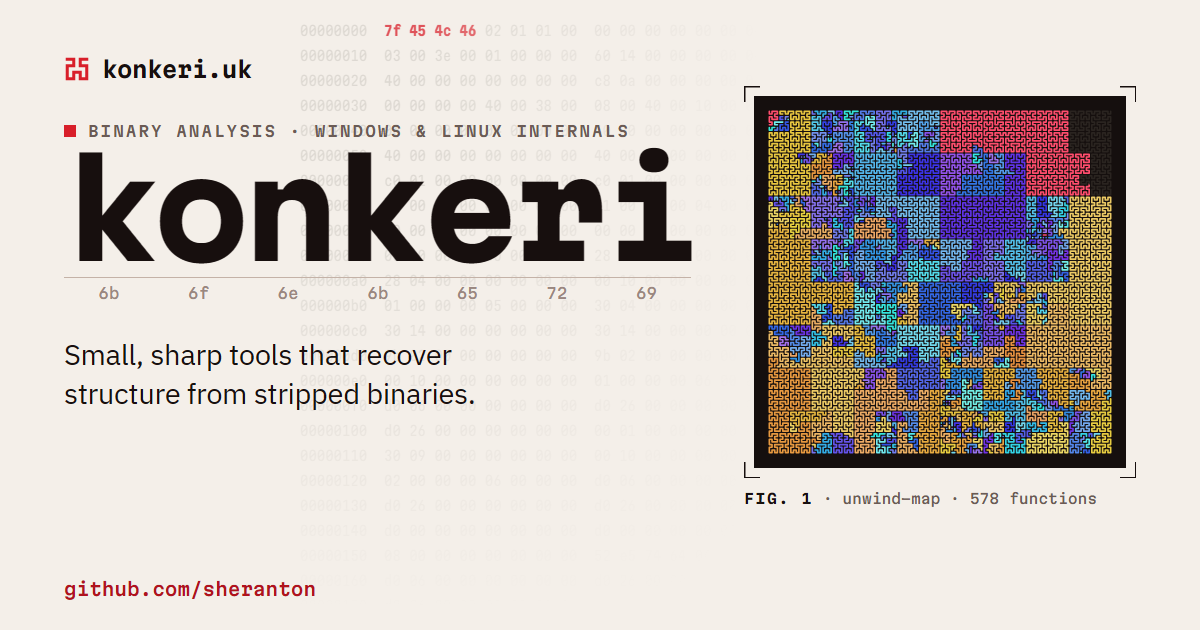
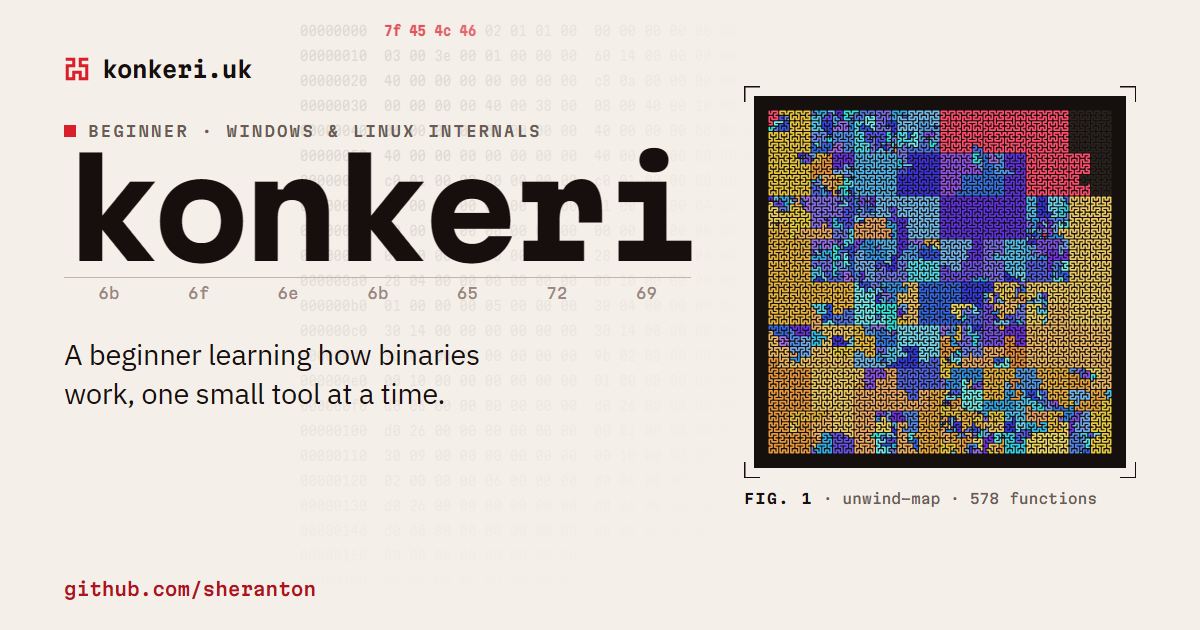
Describe myself as a beginner

Changed region(s): [[0.0308, 0.5429, 0.4008, 0.6635], [0.0925, 0.181, 0.5242, 0.2413]]

diff --git a/index.html b/index.html
@@ -3,8 +3,8 @@
 <head>
 	<meta charset="utf-8">
 	<meta name="viewport" content="width=device-width, initial-scale=1">
-	<title>konkeri · binary analysis, Windows &amp; Linux internals</title>
-	<meta name="description" content="konkeri builds small, sharp tools that recover structure from stripped binaries: function boundaries, class hierarchies, vtables, and what changed between two builds. Rust, C++, C and Python.">
+	<title>konkeri · learning binary analysis and Windows &amp; Linux internals</title>
+	<meta name="description" content="konkeri is a beginner learning reverse engineering and Windows &amp; Linux internals by building small tools in Rust, C++, C and Python.">
 	<meta name="color-scheme" content="light dark">
 	<meta name="theme-color" content="#f4efe9" media="(prefers-color-scheme: light)">
 	<meta name="theme-color" content="#100c0c" media="(prefers-color-scheme: dark)">
@@ -12,8 +12,8 @@
 	<link rel="canonical" href="https://konkeri.uk/">
 	<meta property="og:type" content="website">
 	<meta property="og:url" content="https://konkeri.uk/">
-	<meta property="og:title" content="konkeri · binary analysis, Windows & Linux internals">
-	<meta property="og:description" content="Small, sharp tools that recover structure from stripped binaries.">
+	<meta property="og:title" content="konkeri · learning binary analysis and Windows & Linux internals">
+	<meta property="og:description" content="A beginner learning how binaries work, one small tool at a time.">
 	<meta property="og:image" content="https://konkeri.uk/og.png">
 	<meta property="og:image:width" content="1200">
 	<meta property="og:image:height" content="630">
@@ -76,13 +76,13 @@
 000001b0  4c 00 00 00 00 00 00 00  4c 00 00 00 00 00 00 00  |L.......L.......|</pre>
 			<div class="gutter" aria-hidden="true"><span class="addr">0x000000</span><span class="sname">e_ident</span><span class="meta">7f 45 4c 46</span></div>
 			<div class="sec-main">
-				<p class="kicker"><i aria-hidden="true"></i>Binary analysis · Windows &amp; Linux internals</p>
+				<p class="kicker"><i aria-hidden="true"></i>Beginner · binary analysis · Windows &amp; Linux internals</p>
 				<h1 class="name" aria-label="konkeri">
 					<span class="ch" aria-hidden="true"><b>k</b><i>6b</i></span><span class="ch" aria-hidden="true"><b>o</b><i>6f</i></span><span class="ch" aria-hidden="true"><b>n</b><i>6e</i></span><span class="ch" aria-hidden="true"><b>k</b><i>6b</i></span><span class="ch" aria-hidden="true"><b>e</b><i>65</i></span><span class="ch" aria-hidden="true"><b>r</b><i>72</i></span><span class="ch" aria-hidden="true"><b>i</b><i>69</i></span>
 				</h1>
 				<div class="hero-grid">
 					<div class="hero-copy">
-						<p class="lede">I build small, sharp tools that recover structure from stripped binaries: function boundaries, class hierarchies, vtables, and what changed between two builds.</p>
+						<p class="lede">I'm a beginner learning how binaries work by building small tools to take them apart: finding functions, class hierarchies and vtables, and spotting what changed between two builds.</p>
 						<p class="langs" aria-label="Languages"><span>Rust</span><span>C++</span><span>C</span><span>Python</span></p>
 						<p class="cta">
 							<a class="btn btn-solid" href="#tools">Browse the tools <span aria-hidden="true">↓</span></a>
@@ -108,11 +108,11 @@
 					<table class="shdr">
 						<thead><tr><th scope="col">[Nr]</th><th scope="col">Name</th><th scope="col">Contents</th><th scope="col" class="num">Offset</th><th scope="col" class="num hide-sm">Size</th><th scope="col" class="hide-sm">Flg</th></tr></thead>
 						<tbody>
-							<tr data-for="about"><td>[ 1]</td><td><a href="#about">.comment</a></td><td>About: who I am and what I work on</td><td class="num off">–</td><td class="num size hide-sm">–</td><td class="hide-sm">MS</td></tr>
-							<tr data-for="tools"><td>[ 2]</td><td><a href="#tools">.text</a></td><td>Tools: <span id="toc-tools">6</span> open-source tools, live from GitHub</td><td class="num off">–</td><td class="num size hide-sm">–</td><td class="hide-sm">AX</td></tr>
-							<tr data-for="toolbox"><td>[ 3]</td><td><a href="#toolbox">.rodata</a></td><td>Toolbox: languages, platforms and formats</td><td class="num off">–</td><td class="num size hide-sm">–</td><td class="hide-sm">A</td></tr>
+							<tr data-for="about"><td>[ 1]</td><td><a href="#about">.comment</a></td><td>About: who I am and what I'm learning</td><td class="num off">–</td><td class="num size hide-sm">–</td><td class="hide-sm">MS</td></tr>
+							<tr data-for="tools"><td>[ 2]</td><td><a href="#tools">.text</a></td><td>Tools: <span id="toc-tools">6</span> learning projects, live from GitHub</td><td class="num off">–</td><td class="num size hide-sm">–</td><td class="hide-sm">AX</td></tr>
+							<tr data-for="toolbox"><td>[ 3]</td><td><a href="#toolbox">.rodata</a></td><td>Toolbox: what I've been learning with</td><td class="num off">–</td><td class="num size hide-sm">–</td><td class="hide-sm">A</td></tr>
 							<tr data-for="releases"><td>[ 4]</td><td><a href="#releases">.gnu.version</a></td><td>Releases: <span id="toc-releases">10</span> tagged releases</td><td class="num off">–</td><td class="num size hide-sm">–</td><td class="hide-sm">A</td></tr>
-							<tr data-for="method"><td>[ 5]</td><td><a href="#method">.note</a></td><td>Method: how I build and test</td><td class="num off">–</td><td class="num size hide-sm">–</td><td class="hide-sm">A</td></tr>
+							<tr data-for="method"><td>[ 5]</td><td><a href="#method">.note</a></td><td>Method: how I'm learning</td><td class="num off">–</td><td class="num size hide-sm">–</td><td class="hide-sm">A</td></tr>
 							<tr data-for="contact"><td>[ 6]</td><td><a href="#contact">.dynamic</a></td><td>Contact: where to find me</td><td class="num off">–</td><td class="num size hide-sm">–</td><td class="hide-sm">WA</td></tr>
 						</tbody>
 					</table>
@@ -127,19 +127,19 @@
 				<h2 class="title"><span class="idx">01</span>About</h2>
 				<div class="about">
 					<div class="prose">
-						<p class="big">I'm <strong>konkeri</strong>, an independent researcher working on systems programming and binary analysis across Windows and Linux.</p>
-						<p>Most of what I build is small, focused tooling that makes the layer between source code and the running process visible: how compilers lay out objects and emit metadata, how linkers assemble a binary, how loaders map it into memory, and how debuggers and unwinders read it back.</p>
+						<p class="big">I'm <strong>konkeri</strong>, a beginner teaching myself systems programming and reverse engineering on Windows and Linux.</p>
+						<p>I learn best by building things, so most of my projects are small tools that help me see what happens between source code and a running program: how compilers lay out objects and metadata, how linkers put a binary together, how loaders map it into memory, and how debuggers and unwinders read it back.</p>
 					</div>
 					<blockquote class="thesis">
-						<p>The metadata a compiler <em>has</em> to leave in a binary, such as RTTI, vtables, unwind tables and import tables, survives stripping. It often says more about a program's structure than the symbol table did.</p>
-						<footer class="label">Working thesis</footer>
+						<p>Something I've found fascinating so far: the metadata a compiler <em>has</em> to leave in a binary, such as RTTI, vtables, unwind tables and import tables, survives stripping. It can tell you a surprising amount about how a program is put together.</p>
+						<footer class="label">Something I've learned</footer>
 					</blockquote>
 				</div>
 				<dl class="focus">
-					<div><dt>Windows x64</dt><dd>PE/COFF layout, the MSVC C++ ABI, RTTI and class hierarchy recovery, vtables, imports and exports.</dd></div>
-					<div><dt>Linux</dt><dd>ELF, the System V AMD64 ABI, DWARF call frame information and <code>.eh_frame</code>, program headers and the loader.</dd></div>
-					<div><dt>Tooling</dt><dd>Static analysis that recovers structure from stripped binaries, built to sit alongside Ghidra, GDB, x64dbg and WinDbg.</dd></div>
-					<div><dt>Languages</dt><dd>C++ for Windows tooling, Rust for cross-platform CLIs, C for the lowest layers, Python for analysis scripts and test harnesses.</dd></div>
+					<div><dt>Windows x64</dt><dd>Learning PE/COFF layout, the MSVC C++ ABI, RTTI and class hierarchies, vtables, imports and exports.</dd></div>
+					<div><dt>Linux</dt><dd>Learning ELF, the System V AMD64 ABI, DWARF call frame information and <code>.eh_frame</code>, program headers and the loader.</dd></div>
+					<div><dt>Tooling</dt><dd>Reading stripped binaries with Ghidra, GDB, x64dbg and WinDbg, and writing small tools to help along the way.</dd></div>
+					<div><dt>Languages</dt><dd>C++ for my Windows tools, Rust for cross-platform command-line tools, C for the low-level parts, Python for scripts. Still learning all four.</dd></div>
 				</dl>
 			</div>
 		</section>
@@ -149,14 +149,14 @@
 			<div class="gutter" aria-hidden="true"><span class="addr">0x000000</span><span class="sname">.text</span><span class="meta">AX · <span class="size">0x0</span></span></div>
 			<div class="sec-main">
 				<h2 class="title"><span class="idx">02</span>Tools</h2>
-				<p class="sec-lede">Every tool is open source, has zero third-party dependencies, and is tested in CI on Windows, Linux and macOS. This section reads live from GitHub.</p>
+				<p class="sec-lede">These are my learning projects. They're all open source, tested in CI on Windows, Linux and macOS, and have no third-party dependencies. This section reads live from GitHub.</p>
 
 				<article class="feature" id="tool-unwind-map">
 					<div class="feature-copy">
-						<p class="label"><i class="sq tc-unwind-map" aria-hidden="true"></i>Flagship · Rust</p>
+						<p class="label"><i class="sq tc-unwind-map" aria-hidden="true"></i>Biggest project so far · Rust</p>
 						<h3><a href="https://github.com/sheranton/unwind-map">unwind-map</a></h3>
 						<p class="feature-desc" id="feature-desc">Recover function boundaries from stripped Linux ELF binaries using the .eh_frame unwind tables that strip can't remove.</p>
-						<p>It finds every function that has unwind info, with no false starts, and its output feeds straight back into <code>objcopy</code> to give a stripped binary its symbols again.</p>
+						<p>In my tests it found every function that has unwind info without any false starts, and its output can go straight back into <code>objcopy</code> to give a stripped binary its symbols again.</p>
 						<dl class="spec">
 							<div><dt>Input</dt><dd>Stripped ELF binaries</dd></div>
 							<div><dt>Architectures</dt><dd>x86-64 · x86 · AArch64</dd></div>
@@ -174,8 +174,8 @@
 
 				<div class="kit">
 					<div class="kit-head">
-						<h3 id="kit-title">The rest of the toolkit</h3>
-						<p id="kit-sub">C++17 tools for Windows PE files and MSVC binaries.</p>
+						<h3 id="kit-title">My other projects</h3>
+						<p id="kit-sub">Smaller C++17 tools I made while learning about Windows PE files and MSVC binaries.</p>
 					</div>
 					<div class="kit-grid">
 						<div class="kit-list" id="kit-list" role="tablist" aria-orientation="vertical" aria-labelledby="kit-title">
@@ -201,6 +201,7 @@
 			<div class="gutter" aria-hidden="true"><span class="addr">0x000000</span><span class="sname">.rodata</span><span class="meta">A · <span class="size">0x0</span></span></div>
 			<div class="sec-main">
 				<h2 class="title"><span class="idx">03</span>Toolbox</h2>
+				<p class="sec-lede">The languages and tools I've been learning with so far.</p>
 				<dl class="consts">
 					<div><dt>Languages</dt><dd><span>Rust</span><span>C++17/20</span><span>C</span><span>Python</span></dd></div>
 					<div><dt>Platforms</dt><dd><span>Windows</span><span>Linux</span></dd></div>
@@ -216,7 +217,7 @@
 			<div class="gutter" aria-hidden="true"><span class="addr">0x000000</span><span class="sname">.gnu.version</span><span class="meta">A · <span class="size">0x0</span></span></div>
 			<div class="sec-main">
 				<h2 class="title"><span class="idx">04</span>Releases</h2>
-				<p class="sec-lede">Every tagged release across the toolkit, newest first.</p>
+				<p class="sec-lede">Every tagged release of my projects, newest first.</p>
 				<ol class="vers" id="timeline"></ol>
 			</div>
 		</section>
@@ -227,10 +228,10 @@
 			<div class="sec-main">
 				<h2 class="title"><span class="idx">05</span>Method</h2>
 				<ol class="notes">
-					<li><p class="label">Note 01</p><h3>Lab-first</h3><p>Everything is built and tested on my own machines, against my own target binaries.</p></li>
-					<li><p class="label">Note 02</p><h3>Verified, not eyeballed</h3><p>Golden-file tests against real binaries, cross-checked with independent decoders such as readelf and llvm-readobj.</p></li>
-					<li><p class="label">Note 03</p><h3>Small and auditable</h3><p>Focused codebases with zero third-party dependencies, so the whole tool fits in your head.</p></li>
-					<li><p class="label">Note 04</p><h3>Documented internals</h3><p>Every README explains the format being parsed, with diagrams built from real data.</p></li>
+					<li><p class="label">Note 01</p><h3>Learning by building</h3><p>I learn each file format by writing a tool that reads it, then testing it on binaries I've built myself.</p></li>
+					<li><p class="label">Note 02</p><h3>Checking my work</h3><p>I test against real binaries and compare my results with established tools like readelf and llvm-readobj, so I find out when I've got something wrong.</p></li>
+					<li><p class="label">Note 03</p><h3>Keeping it small</h3><p>Each tool does one thing and has no third-party dependencies, so I can understand every line.</p></li>
+					<li><p class="label">Note 04</p><h3>Writing it down</h3><p>Each README explains the file format the tool reads, which helps me check that I really understand it.</p></li>
 				</ol>
 			</div>
 		</section>
@@ -240,7 +241,7 @@
 			<div class="gutter" aria-hidden="true"><span class="addr">0x000000</span><span class="sname">.dynamic</span><span class="meta">WA · <span class="size">0x0</span></span></div>
 			<div class="sec-main">
 				<h2 class="title"><span class="idx">06</span>Contact</h2>
-				<p class="contact-lede">The best way to reach me is on GitHub: open an issue on any repository, or follow along there.</p>
+				<p class="contact-lede">I'm still learning, so feedback, corrections and tips are really welcome. The best way to reach me is on GitHub: open an issue on any repository.</p>
 				<a class="biglink" href="https://github.com/sheranton" rel="me">github.com/sheranton<span aria-hidden="true">↗</span></a>
 				<pre class="dyn" aria-label="readelf -d style summary of the links above"><span class="dim">  Tag        Type       Name/Value</span>
  0x00000001 (NEEDED)   Shared library: [<a href="https://github.com/sheranton">github.com/sheranton</a>]

diff --git a/scripts/og.html b/scripts/og.html
@@ -79,11 +79,11 @@
 000001b0  4c 00 00 00 00 00 00 00  4c 00 00 00 00 00 00 00</pre>
 	<div>
 		<div class="top"><svg viewBox="0 0 24 24"><path d="M3 3H9V9H3V21H9V15H15V21H21V9H15V3H21"/></svg>konkeri.uk</div>
-		<p class="kicker"><i></i>Binary analysis · Windows &amp; Linux internals</p>
+		<p class="kicker"><i></i>Beginner · Windows &amp; Linux internals</p>
 		<div class="name">
 			<span class="ch"><b>k</b><i>6b</i></span><span class="ch"><b>o</b><i>6f</i></span><span class="ch"><b>n</b><i>6e</i></span><span class="ch"><b>k</b><i>6b</i></span><span class="ch"><b>e</b><i>65</i></span><span class="ch"><b>r</b><i>72</i></span><span class="ch"><b>i</b><i>69</i></span>
 		</div>
-		<p class="lede">Small, sharp tools that recover structure from stripped binaries.</p>
+		<p class="lede">A beginner learning how binaries work, one small tool at a time.</p>
 	</div>
 	<div>
 		<div class="crop"><div class="plate"><img src="../public/fig-unwind-map.svg" alt=""></div></div>

diff --git a/src/main.ts b/src/main.ts
@@ -295,7 +295,7 @@ const HIGHLIGHTS: Record<string, string> = {
 	"pe-diff": "Shows what changed between two builds and exits 1 on drift, so it can gate a CI pipeline.",
 	"rtti-dump": "Rebuilds inheritance trees from stripped MSVC binaries and emits Mermaid class diagrams.",
 	"vtable-dump": "Finds every vtable through its RTTI back-reference and lists the code in each slot.",
-	"pattern-scan": "A single header about 11× faster than a byte-by-byte scan, plus the patscan CLI.",
+	"pattern-scan": "A single header that came out about 11× faster than a byte-by-byte scan in my benchmark, plus the patscan CLI.",
 };
 const toolClass = (name: string) => `tc-${/^[a-z0-9-]+$/.test(name) ? name : "other"}`;
 
